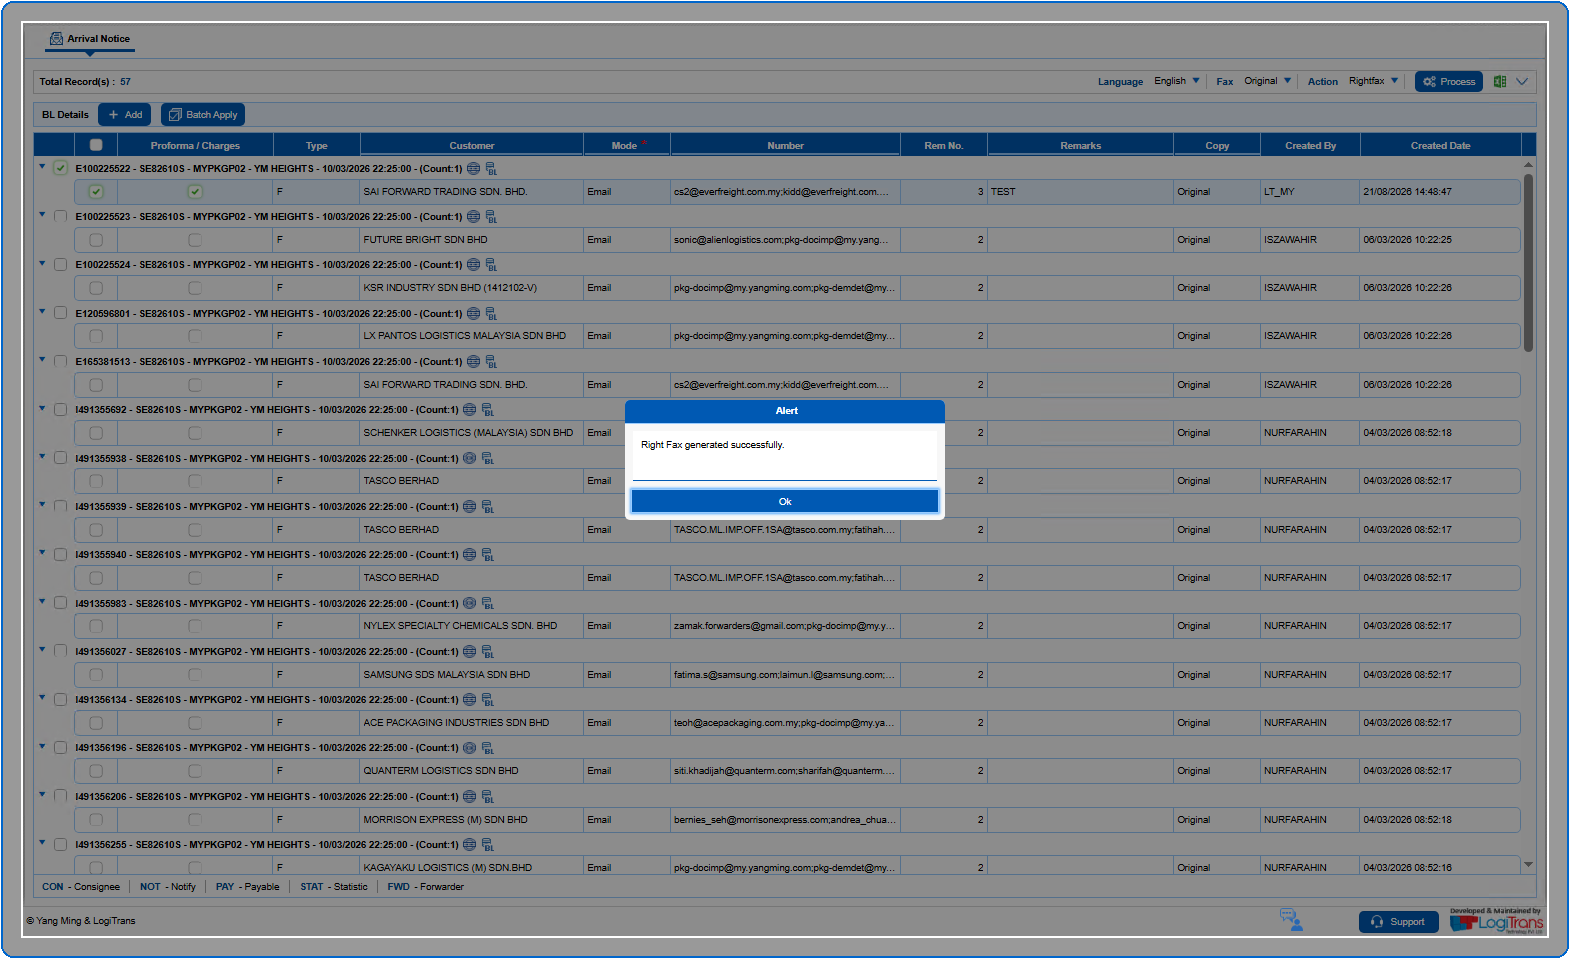
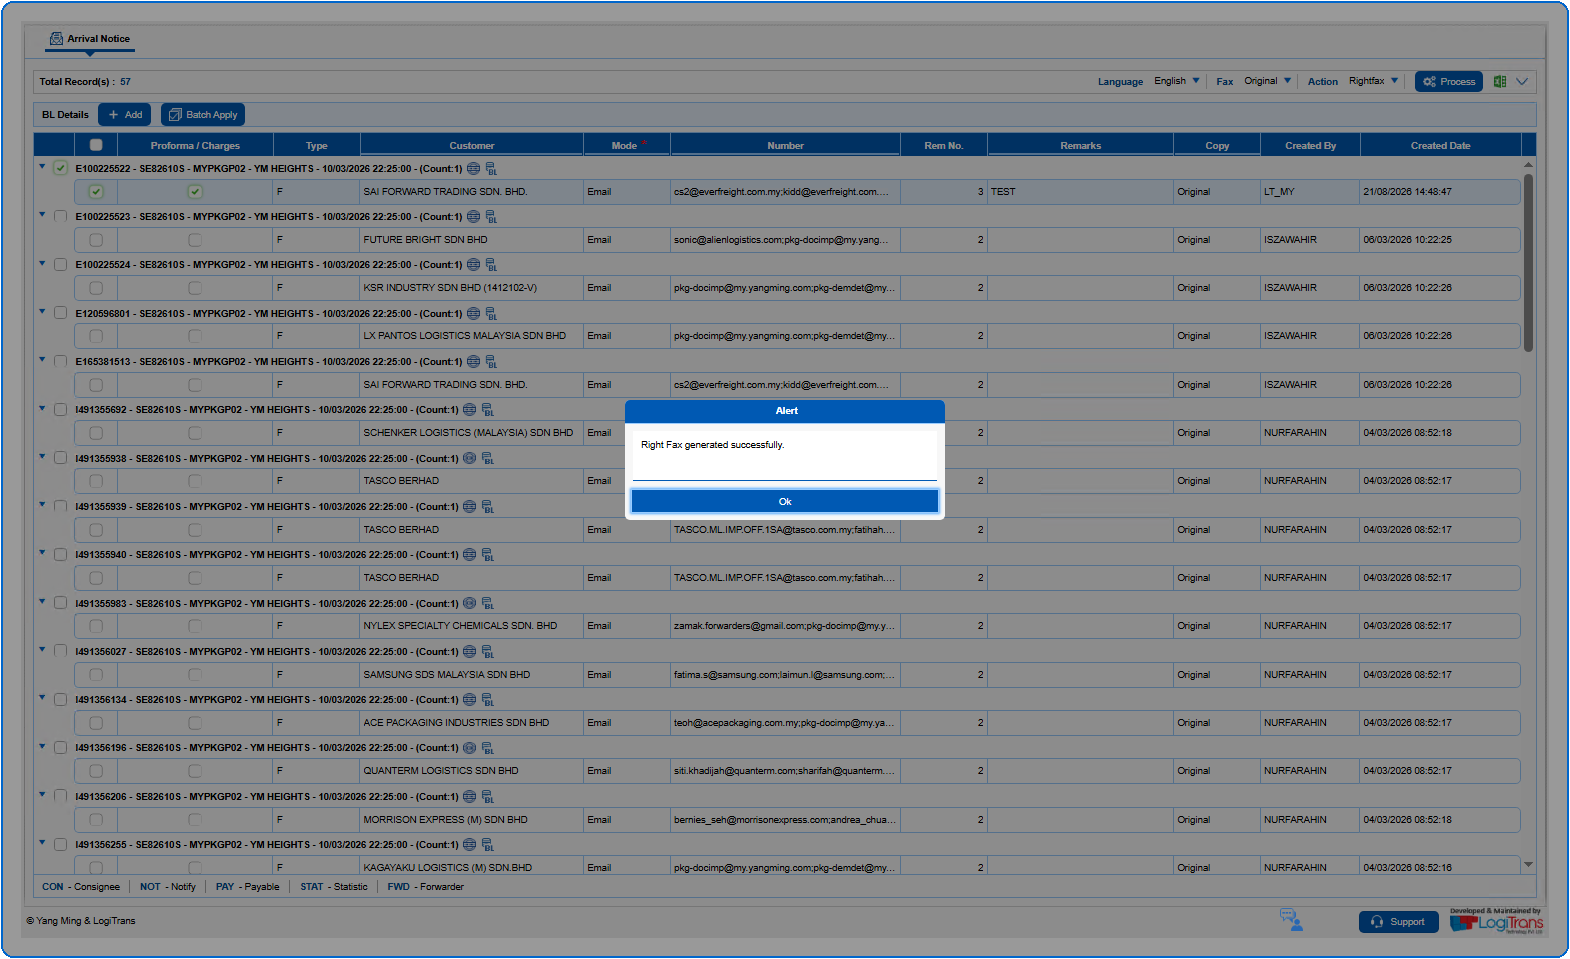
Grey out white edge strip on dimmed screenshots (rule + Add images)

diff --git a/.github/skills/iliscyber-drexplain-manual/references/screenshots.md b/.github/skills/iliscyber-drexplain-manual/references/screenshots.md
@@ -6,6 +6,7 @@
 - Grey side areas: before adding the border, crop away any grey area on the LEFT and RIGHT edges of every screenshot (browser/window shadow gradient, grey background strip, hatched grey background, dimmed background showing beside a pop-up, and blank padding beyond it). Crop only that grey area, never the app's own content, frame or buttons (e.g. keep a pop-up's close X). Do this for every image EXCEPT side-function screenshots (their side icons sit on the right edge). Crop before marking, so all box coordinates follow the cropped image.
 - Blue border: white padding 18px, 2px #0066CC rounded rectangle (radius 12), 1px outer margin.
 - Greyed-out screenshots (pop-up/alert over dimmed screen): fill the padding inside the border with grey #999999 instead of white (auto-detect: median brightness of the screenshot edge < 200, sampled a few pixels in from the edge so a 1-2 px white screen edge does not hide the dimming).
+- WHITE EDGE STRIP ON DIMMED SCREENSHOTS (user rule, always): a dimmed (greyed-out) screenshot often has a thin undimmed white strip (1-3 px) along its edges. Grey it out BEFORE `prep`: fill each white edge strip with dimmed white `140,140,140` (white x 0.549) using `erase SRC DST --box <strip> --color 140,140,140` on a copy in `work/<manual>/build/`, then prep/mark that copy (manual image AND mapping copy). Check the top-left corner zoomed - no white line may remain between the screen and the grey padding.
 - Only screenshots in "How to" pages are marked. Overview pages use plain screenshots (except main/sub module images which keep their red tile box).
 - Markings: 3px pure red (#FF0000) rectangle; numbered circle ~28px, white fill, 2px red outline, bold red number = step number (smaller font for 2-digit numbers so they fit inside the circle). Numbers continue across screenshots.
 - Circle placement (as in the Import Documentation manual): the circle's centre sits exactly on its own box's line (edge or corner), half inside and half outside the box, never away from it. Take the FIRST spot in this order that covers no text, icon or other box:
